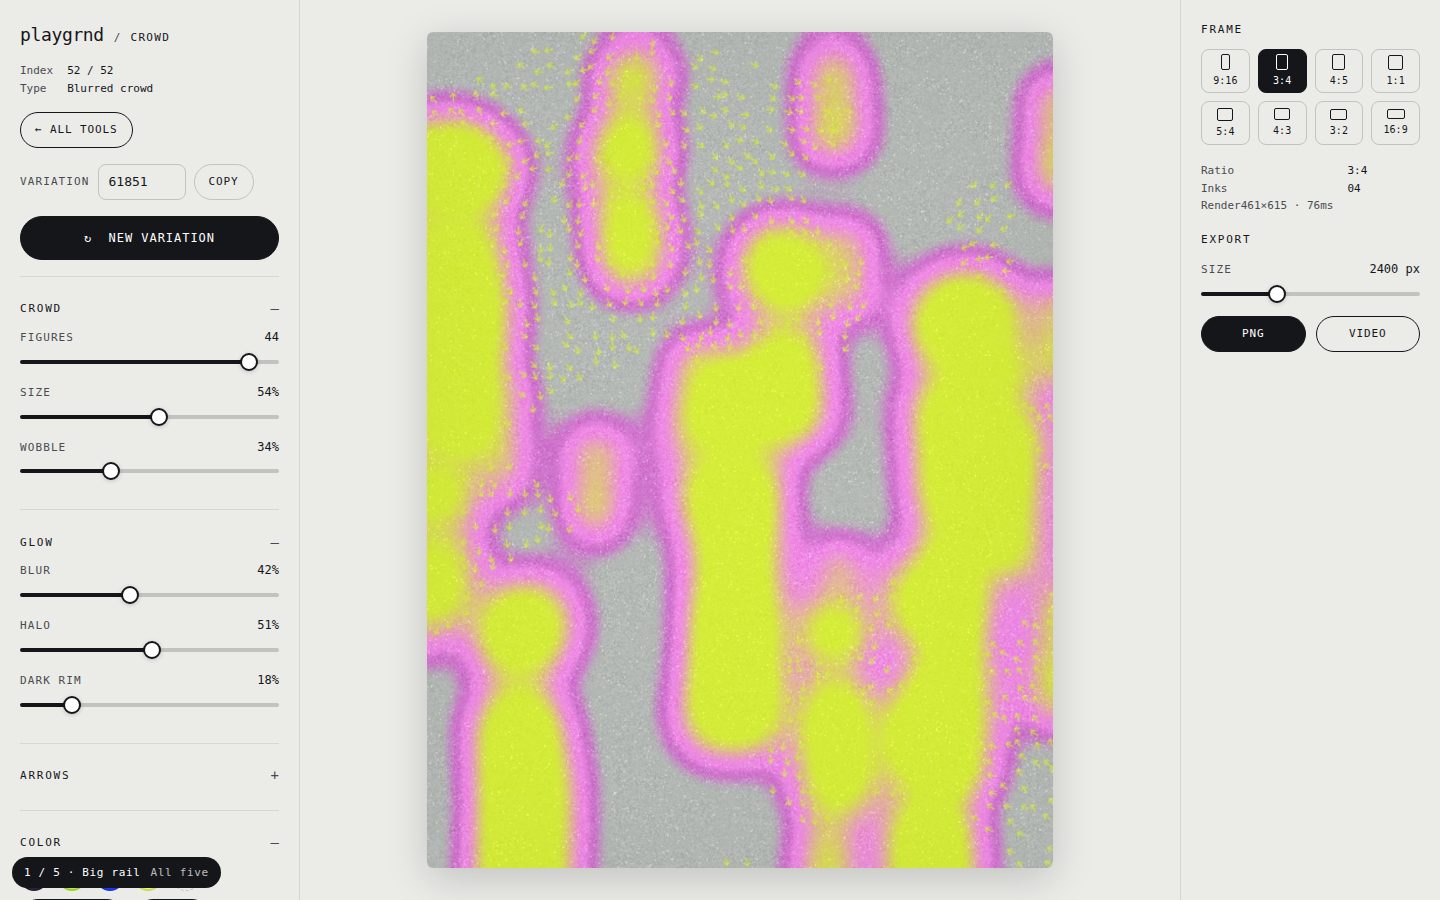
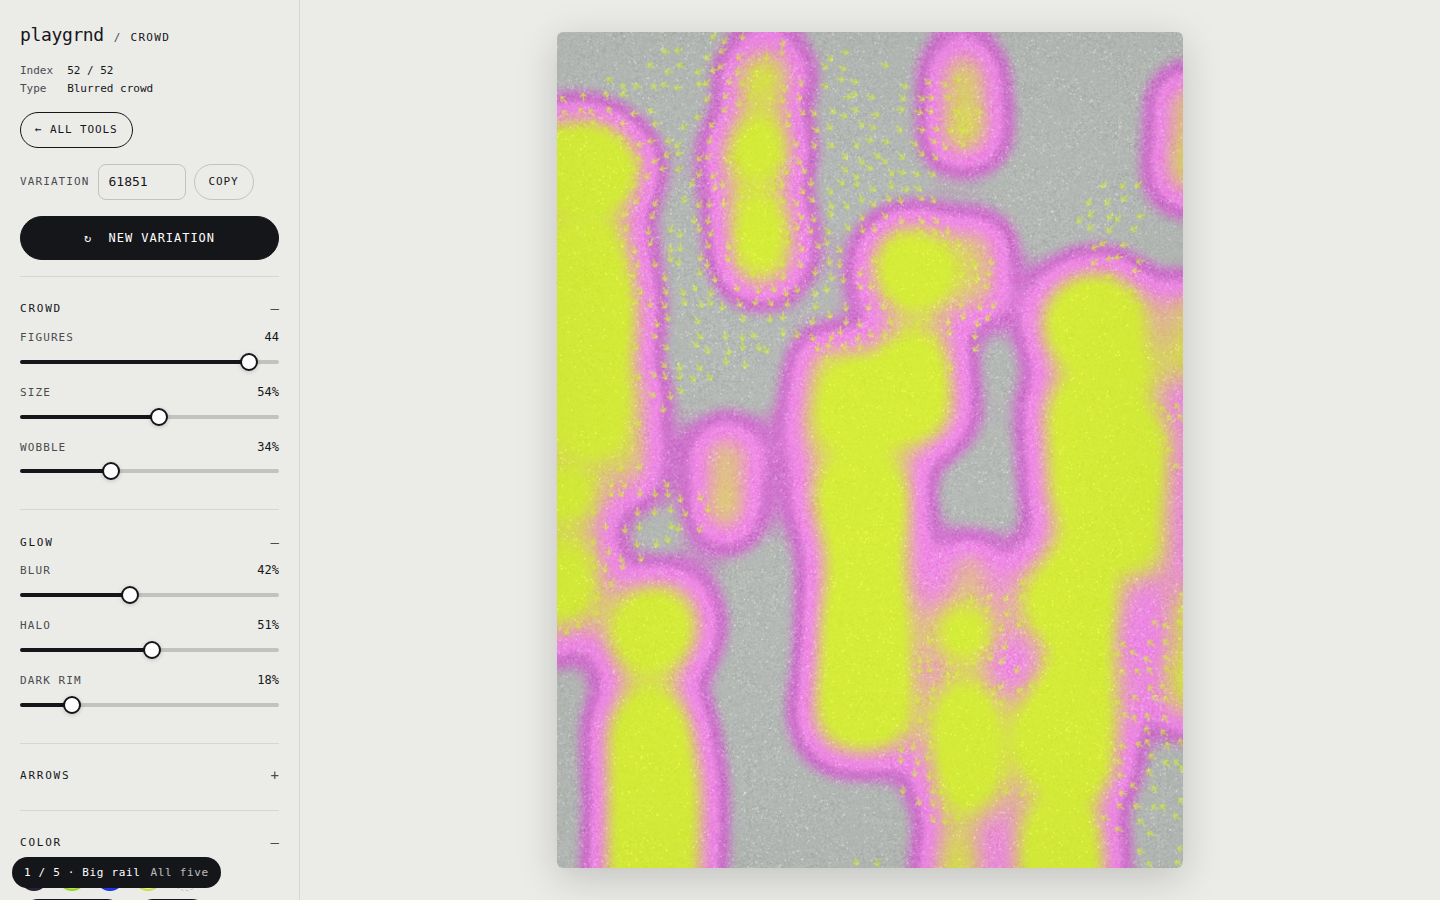
Big rail prototype: one left rail, frame and export included
Claude-Session: https://claude.ai/code/session_01Hb5jk9z6h4o1AzZNFzskh6

diff --git a/ui/1/index.html b/ui/1/index.html
@@ -4,9 +4,8 @@
 <link rel="preconnect" href="https://fonts.googleapis.com"><link rel="stylesheet" href="https://fonts.googleapis.com/css2?family=DM+Mono:wght@400;500&display=swap">
 <link rel="stylesheet" href="../base.css">
 <style>
-.app{display:grid;grid-template-columns:300px 1fr 260px;min-height:100vh}
+.app{display:grid;grid-template-columns:300px 1fr;min-height:100vh}
 .rail{padding:22px 20px;border-right:1px solid var(--line);display:flex;flex-direction:column;gap:16px;overflow:auto;max-height:100vh;position:sticky;top:0}
-.rail2{padding:22px 20px;border-left:1px solid var(--line);display:flex;flex-direction:column;gap:18px}
 .stage{display:flex;align-items:center;justify-content:center;padding:32px}
 .stage img{max-height:calc(100vh - 64px);max-width:100%;width:auto}
 details{border-top:1px solid var(--line);padding-top:14px}
@@ -17,7 +16,7 @@ details:not([open]) summary::after{content:"+"}
 .body{display:flex;flex-direction:column;gap:8px;padding:2px 0 8px}
 .meta{display:grid;grid-template-columns:auto 1fr;gap:2px 14px;font-size:11px}
 .meta b{font-weight:500}
-@media(max-width:1000px){.app{grid-template-columns:minmax(0,1fr)}.rail{position:static;max-height:none;border:0;order:2}.rail2{border:0;order:3}.stage{order:1;padding:16px}.stage img{max-height:60vh}}
+@media(max-width:1000px){.app{grid-template-columns:minmax(0,1fr)}.rail{position:static;max-height:none;border:0;order:2}.stage{order:1;padding:16px}.stage img{max-height:60vh}}
 </style></head>
 <body>
 <div class="app">
@@ -51,10 +50,7 @@ details:not([open]) summary::after{content:"+"}
   <details><summary><span class="h">Grain</span></summary><div class="body"><div class="sw"><span class="lbl">Grain</span><button class="knob" aria-pressed="true" data-body="g1" aria-label="Grain"></button></div><div id="g1" class="body"><div class="chips" data-one><button class="chip" aria-pressed="true">Overlay</button><button class="chip" aria-pressed="false">Multiply</button><button class="chip" aria-pressed="false">Add</button></div><div class="dial"><div class="top"><span class="lbl">Amount</span><span class="val">0.35</span></div>
 <input type="range" min="0" max="1" step="0.01" value="0.35" data-fmt="pct" aria-label="Amount"></div><div class="dial"><div class="top"><span class="lbl">Grain size</span><span class="val">1</span></div>
 <input type="range" min="0.5" max="3" step="0.1" value="1" data-fmt="pct" aria-label="Grain size"></div></div></div></details>
-</aside>
-<main class="stage"><img class="art" src="../art/crowd.jpg" alt=""></main>
-<aside class="rail2">
-  <div><p class="h" style="margin-bottom:12px">Frame</p><div class="ratios" data-one>
+  <details open><summary><span class="h">Frame</span></summary><div class="body"><div class="ratios" data-one>
 <button class="ratio" aria-pressed="false"><i style="width:9px;height:16px"></i>9:16</button>
 <button class="ratio" aria-pressed="true"><i style="width:12px;height:16px"></i>3:4</button>
 <button class="ratio" aria-pressed="false"><i style="width:13px;height:16px"></i>4:5</button>
@@ -62,11 +58,11 @@ details:not([open]) summary::after{content:"+"}
 <button class="ratio" aria-pressed="false"><i style="width:16px;height:13px"></i>5:4</button>
 <button class="ratio" aria-pressed="false"><i style="width:16px;height:12px"></i>4:3</button>
 <button class="ratio" aria-pressed="false"><i style="width:17px;height:11px"></i>3:2</button>
-<button class="ratio" aria-pressed="false"><i style="width:18px;height:10px"></i>16:9</button></div></div>
-  <div class="meta"><span class="sub">Ratio</span><b>3:4</b><span class="sub">Inks</span><b>04</b><span class="sub">Render</b><b>461×615 · 76ms</b></div>
-  <div><p class="h" style="margin-bottom:12px">Export</p><div class="body"><div class="dial"><div class="top"><span class="lbl">Size</span><span class="val">2400</span></div>
-<input type="range" min="600" max="6000" step="100" value="2400" data-fmt="px" aria-label="Size"></div><div class="row"><button class="btn primary" style="flex:1">PNG</button><button class="btn" style="flex:1">Video</button></div></div></div>
+<button class="ratio" aria-pressed="false"><i style="width:18px;height:10px"></i>16:9</button></div></div></details>
+  <details open><summary><span class="h">Export</span></summary><div class="body"><div class="dial"><div class="top"><span class="lbl">Size</span><span class="val">2400</span></div>
+<input type="range" min="600" max="6000" step="100" value="2400" data-fmt="px" aria-label="Size"></div><div class="row"><button class="btn primary" style="flex:1">PNG</button><button class="btn" style="flex:1">Video</button></div></div></details>
 </aside>
+<main class="stage"><img class="art" src="../art/crowd.jpg" alt=""></main>
 </div>
 <div class="proto-tag"><span>1 / 5 · Big rail</span><a href="../">All five</a></div>
 <script src="../base.js"></script>

diff --git a/ui/index.html b/ui/index.html
@@ -24,5 +24,5 @@ h1{font-size:26px;font-weight:500;margin:0 0 8px}
 <h1>Tool page layouts</h1>
 <p class="lead">Five ways to make the tool page easier to see and easier to grab, each a moderate step up from today rather than a leap. Same brand, same controls, same picture in every one. Each opens with the real dial set from Crowd so you can feel the sliders, chips and buttons at their new sizes. Try them on your phone too.</p>
 <div class="now"><span>Labels today</span><b>8.5px at 45% grey</b><span>Labels in every option</span><b>11–12px at 70% ink</b><span>Slider track today</span><b>1px hairline, 12px thumb</b><span>Slider in every option</span><b>4px track, 18px thumb</b><span>Smallest tap target today</span><b>15px swatch</b><span>Smallest tap target now</span><b>28px swatch, 36px everything else</b></div>
-<div class="opts"><a class="opt" href="1/"><img src="shots/1-desktop.png" alt=""><div class="t"><span class="num">1</span><span class="name">Big rail</span></div><p>Today's layout, kept. Everything in it a step bigger: 11–12px type instead of 8.5, 4px slider tracks instead of 1, 18px thumbs, 36px rows.</p><div class="mini"><img src="shots/1-mobile.png" alt=""></div></a><a class="opt" href="2/"><img src="shots/2-desktop.png" alt=""><div class="t"><span class="num">2</span><span class="name">Deck</span></div><p>Art on top, a tabbed dock along the bottom. One tab open at a time, its dials laid side by side at full width. Built for thumbs.</p><div class="mini"><img src="shots/2-mobile.png" alt=""></div></a><a class="opt" href="3/"><img src="shots/3-desktop.png" alt=""><div class="t"><span class="num">3</span><span class="name">Desk</span></div><p>Art pinned on the left, a grid of dial cards on the right. Each card shows its number a little bigger, so you can find a setting at a glance.</p><div class="mini"><img src="shots/3-mobile.png" alt=""></div></a><a class="opt" href="4/"><img src="shots/4-desktop.png" alt=""><div class="t"><span class="num">4</span><span class="name">Focus</span></div><p>The picture gets the whole screen. A floating bar of five buttons sits at the bottom; each opens a sheet with large controls, then gets out of the way.</p><div class="mini"><img src="shots/4-mobile.png" alt=""></div></a><a class="opt" href="5/"><img src="shots/5-desktop.png" alt=""><div class="t"><span class="num">5</span><span class="name">Steppers</span></div><p>No hairline sliders at all. Every dial is a bar with minus and plus buttons, so a nudge is one tap and a jump is a tap on the bar.</p><div class="mini"><img src="shots/5-mobile.png" alt=""></div></a></div>
+<div class="opts"><a class="opt" href="1/"><img src="shots/1-desktop.png" alt=""><div class="t"><span class="num">1</span><span class="name">Big rail</span></div><p>Today's layout with everything in one left rail, frame and export included. Everything a step bigger: 11–12px type instead of 8.5, 4px slider tracks instead of 1, 18px thumbs, 36px rows.</p><div class="mini"><img src="shots/1-mobile.png" alt=""></div></a><a class="opt" href="2/"><img src="shots/2-desktop.png" alt=""><div class="t"><span class="num">2</span><span class="name">Deck</span></div><p>Art on top, a tabbed dock along the bottom. One tab open at a time, its dials laid side by side at full width. Built for thumbs.</p><div class="mini"><img src="shots/2-mobile.png" alt=""></div></a><a class="opt" href="3/"><img src="shots/3-desktop.png" alt=""><div class="t"><span class="num">3</span><span class="name">Desk</span></div><p>Art pinned on the left, a grid of dial cards on the right. Each card shows its number a little bigger, so you can find a setting at a glance.</p><div class="mini"><img src="shots/3-mobile.png" alt=""></div></a><a class="opt" href="4/"><img src="shots/4-desktop.png" alt=""><div class="t"><span class="num">4</span><span class="name">Focus</span></div><p>The picture gets the whole screen. A floating bar of five buttons sits at the bottom; each opens a sheet with large controls, then gets out of the way.</p><div class="mini"><img src="shots/4-mobile.png" alt=""></div></a><a class="opt" href="5/"><img src="shots/5-desktop.png" alt=""><div class="t"><span class="num">5</span><span class="name">Steppers</span></div><p>No hairline sliders at all. Every dial is a bar with minus and plus buttons, so a nudge is one tap and a jump is a tap on the bar.</p><div class="mini"><img src="shots/5-mobile.png" alt=""></div></a></div>
 </div></body></html>
